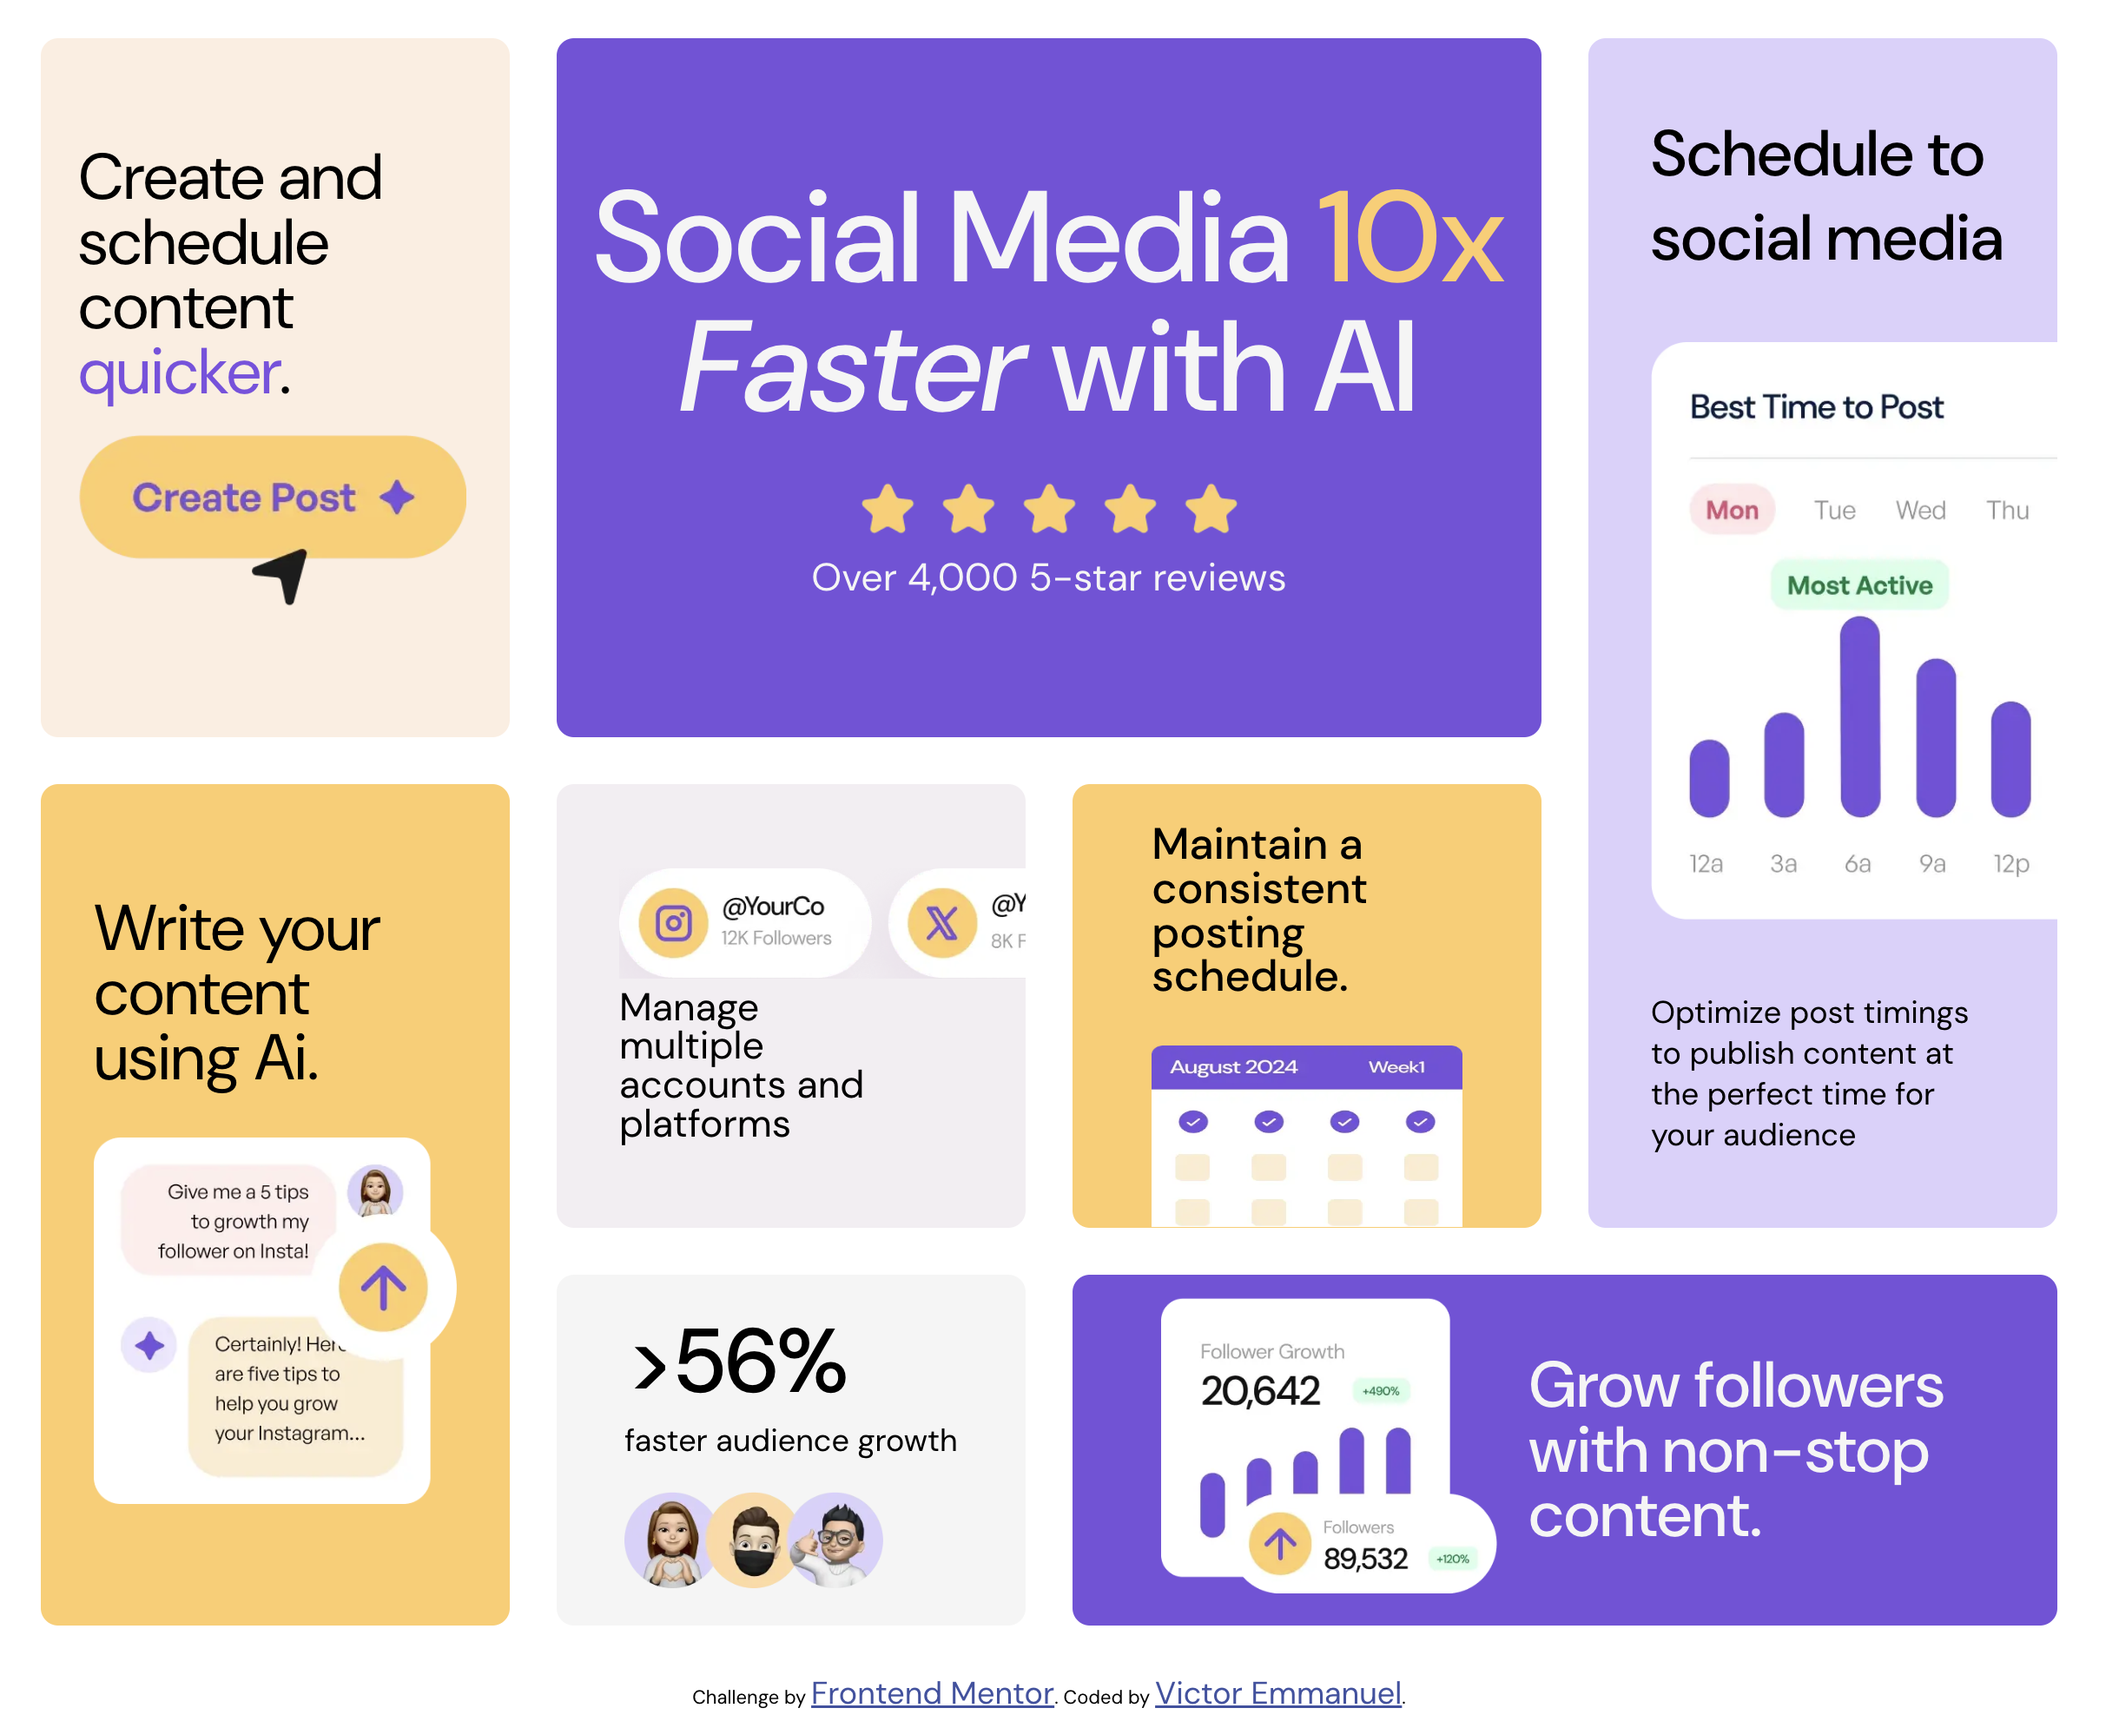
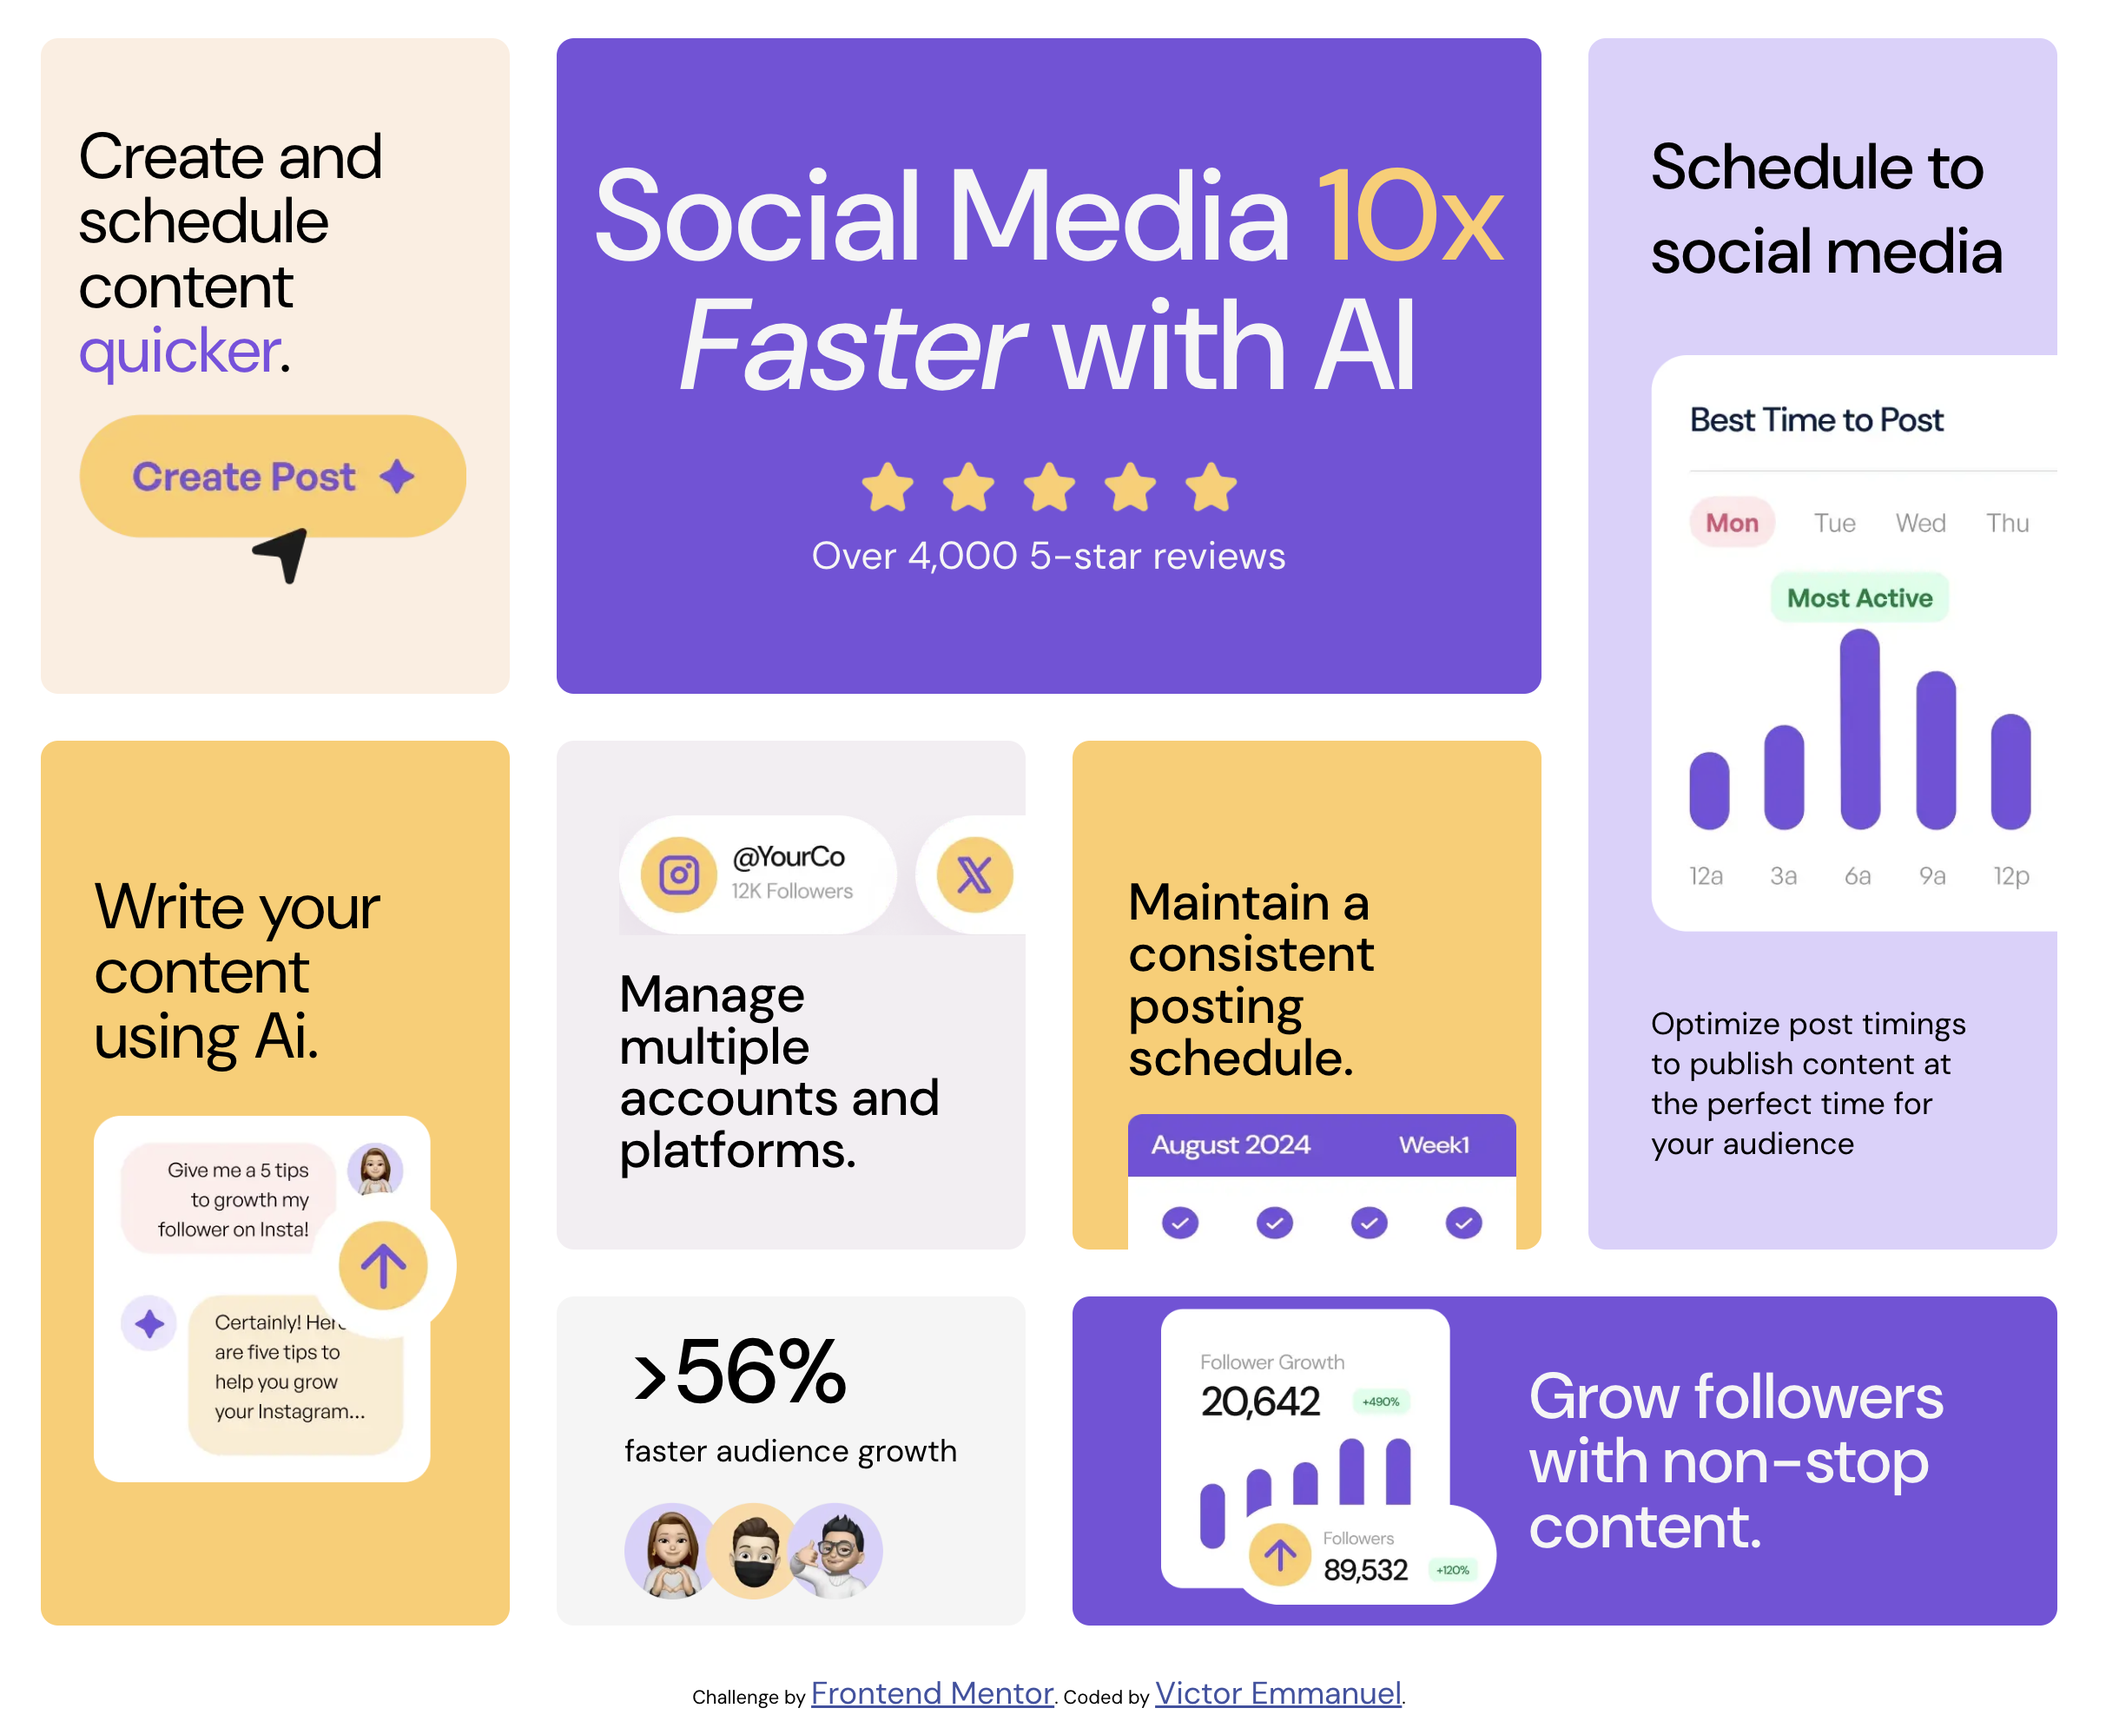
change grid-item-maintain style

diff --git a/src/components/Grid/Grid.style.css b/src/components/Grid/Grid.style.css
@@ -1,7 +1,7 @@
 .grid-container {
   display: grid;
   grid-template-columns: repeat(4, 270px);
-  grid-template-rows: auto;
+  grid-template-rows: repeat(4, auto);
   grid-template-areas:
     "create social social schedule"
     "create social social schedule"
@@ -143,26 +143,34 @@
 .grid-item-maintain {
   grid-area: maintain;
   background-color: #ffcc69;
+  overflow: hidden;
 }
 
-/* .grid-item-maintain div {
+/* .grid-item-maintain > div {
+  width: 100%;
   height: 100%;
+  padding: 2rem;
 } */
 
 .grid-item-maintain p {
-  font-size: 1.7vw;
+  font-size: 2vw;
   width: 10ch;
   font-weight: var(--med-weight);
   line-height: 1;
   /* padding-bottom: 0.65rem; */
 }
 
-.grid-item-maintain img {
-  width: 12vw;
-  height: 7vw;
-  /* align-self: flex-end; */
+.grid-item-maintain div > div {
   position: relative;
-  top: 27px;
+  width: 100%;
+  /* top: 1rem; */
+  padding-top: 1rem;
+}
+
+.grid-item-maintain img {
+  width: 15vw;
+  height: 10vw;
+  position: absolute;
 }
 
 .grid-item-grow {
@@ -218,4 +226,5 @@
 .grid-item-schedule p:last-child {
   font-weight: var(--reg-weight);
   width: 15ch;
+  font-size: 1.2vw;
 }
